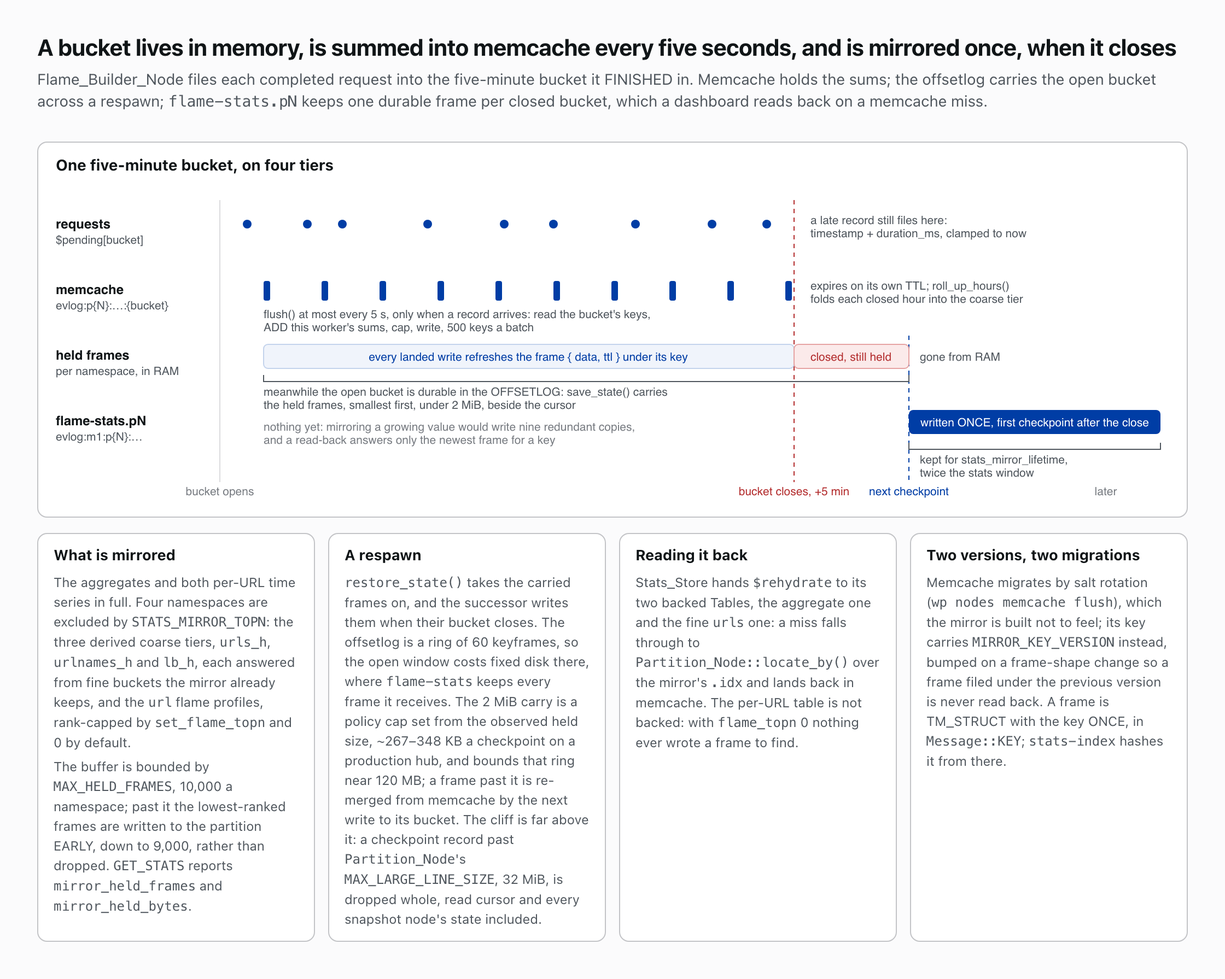
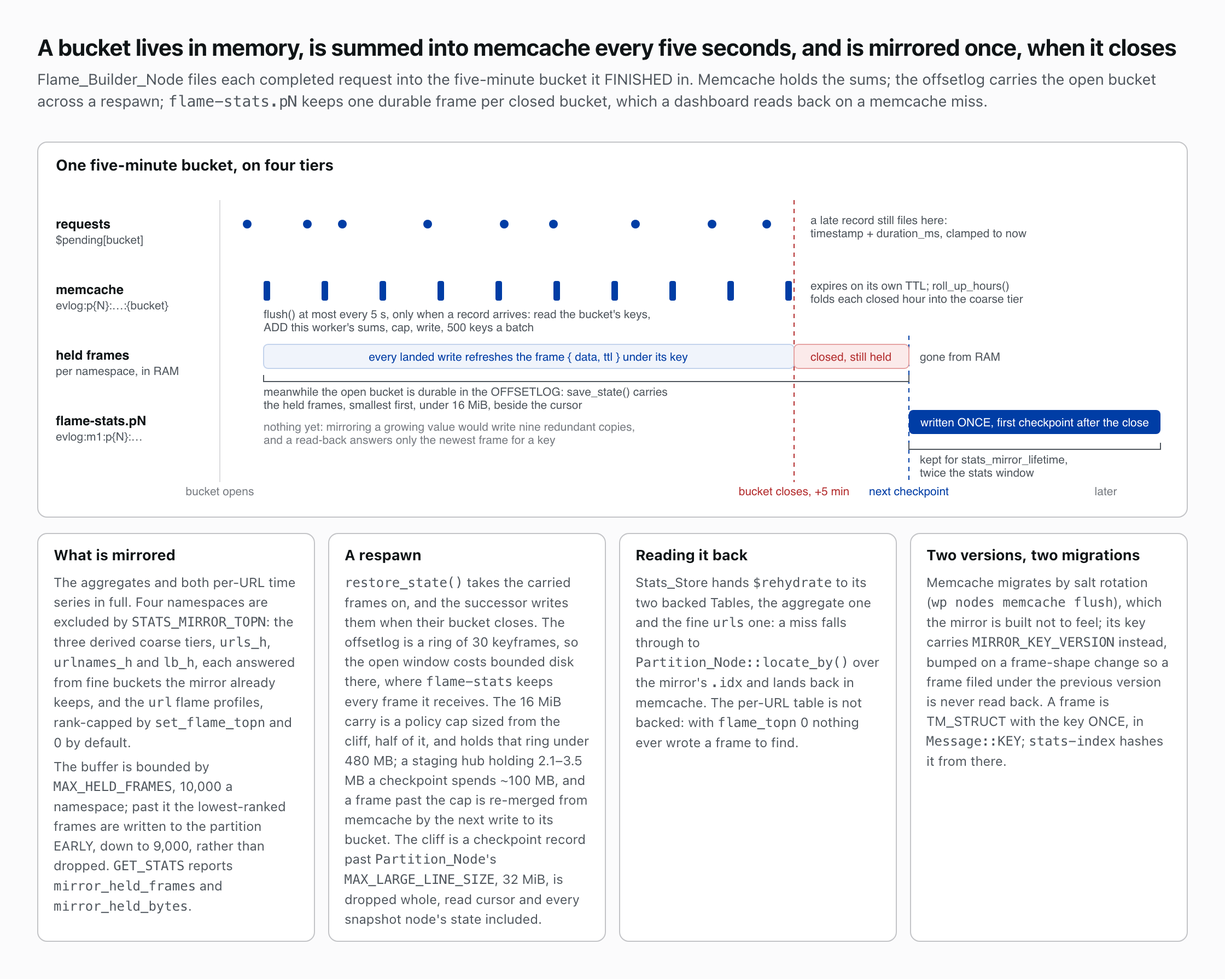
fix: size the checkpoint mirror budget from the record cliff
`MAX_CHECKPOINT_MIRROR_BYTES` was 2 MiB, set from one production hub's
267–348 KB per checkpoint. A staging hub holds ~1,400 per-URL frames,
2.1–3.5 MB, so every checkpoint of every `complete` worker dropped 52–291
frames and logged the tripwire, which then reported nothing. The budget
is 16 MiB, half of `Partition_Node::MAX_LARGE_LINE_SIZE`, the cliff past
which the whole record is dropped; the other half carries the cursor,
`pending` and the framing the policy cap does not count. Disk follows
what is held: the offsetlog ring keeps 30 keyframes, ~100 MB for that hub.

Changed region(s): [[0.2812, 0.6449, 0.4688, 0.8906], [0.375, 0.3992, 0.4688, 0.4299]]

diff --git a/docs/img/ag-stats-mirror.html b/docs/img/ag-stats-mirror.html
@@ -37,7 +37,7 @@
     <text x="790" y="165" fill="#50575E" font-size="10.5">gone from RAM</text>
     <!-- offsetlog note -->
     <path d="M190 178 V184 H780 V178" fill="none" stroke="#50575E"/>
-    <text x="190" y="197" fill="#50575E" font-size="10.5">meanwhile the open bucket is durable in the OFFSETLOG: save_state() carries</text><text x="190" y="209" fill="#50575E" font-size="10.5">the held frames, smallest first, under 2 MiB, beside the cursor</text>
+    <text x="190" y="197" fill="#50575E" font-size="10.5">meanwhile the open bucket is durable in the OFFSETLOG: save_state() carries</text><text x="190" y="209" fill="#50575E" font-size="10.5">the held frames, smallest first, under 16 MiB, beside the cursor</text>
     <!-- flame-stats row -->
     <rect x="780" y="210" width="230" height="22" rx="4" fill="#003DA5"/>
     <text x="895" y="225" text-anchor="middle" fill="#fff" font-size="10.5">written ONCE, first checkpoint after the close</text>
@@ -49,7 +49,7 @@
 
 <div class="grid">
   <div class="card"><h3>What is mirrored</h3><p>The aggregates and both per-URL time series in full. Four namespaces are excluded by <span class="mono">STATS_MIRROR_TOPN</span>: the three derived coarse tiers, <span class="mono">urls_h</span>, <span class="mono">urlnames_h</span> and <span class="mono">lb_h</span>, each answered from fine buckets the mirror already keeps, and the <span class="mono">url</span> flame profiles, rank-capped by <span class="mono">set_flame_topn</span> and 0 by default.</p><p>The buffer is bounded by <span class="mono">MAX_HELD_FRAMES</span>, 10,000 a namespace; past it the lowest-ranked frames are written to the partition EARLY, down to 9,000, rather than dropped. <span class="mono">GET_STATS</span> reports <span class="mono">mirror_held_frames</span> and <span class="mono">mirror_held_bytes</span>.</p></div>
-  <div class="card"><h3>A respawn</h3><p><span class="mono">restore_state()</span> takes the carried frames on, and the successor writes them when their bucket closes. The offsetlog is a ring of 60 keyframes, so the open window costs fixed disk there, where <span class="mono">flame-stats</span> keeps every frame it receives. The 2 MiB carry is a policy cap set from the observed held size, ~267–348 KB a checkpoint on a production hub, and bounds that ring near 120 MB; a frame past it is re-merged from memcache by the next write to its bucket. The cliff is far above it: a checkpoint record past <span class="mono" style="white-space:nowrap">Partition_Node</span>'s <span class="mono" style="white-space:nowrap">MAX_LARGE_LINE_SIZE</span>, 32 MiB, is dropped whole, read cursor and every snapshot node's state included.</p></div>
+  <div class="card"><h3>A respawn</h3><p><span class="mono">restore_state()</span> takes the carried frames on, and the successor writes them when their bucket closes. The offsetlog is a ring of 30 keyframes, so the open window costs bounded disk there, where <span class="mono">flame-stats</span> keeps every frame it receives. The 16 MiB carry is a policy cap sized from the cliff, half of it, and holds that ring under 480 MB; a staging hub holding 2.1–3.5 MB a checkpoint spends ~100 MB, and a frame past the cap is re-merged from memcache by the next write to its bucket. The cliff is a checkpoint record past <span class="mono" style="white-space:nowrap">Partition_Node</span>'s <span class="mono" style="white-space:nowrap">MAX_LARGE_LINE_SIZE</span>, 32 MiB, is dropped whole, read cursor and every snapshot node's state included.</p></div>
   <div class="card"><h3>Reading it back</h3><p>Stats_Store hands <span class="mono">$rehydrate</span> to its two backed Tables, the aggregate one and the fine <span class="mono">urls</span> one: a miss falls through to <span class="mono">Partition_Node::locate_by()</span> over the mirror's <span class="mono">.idx</span> and lands back in memcache. The per-URL table is not backed: with <span class="mono">flame_topn</span> 0 nothing ever wrote a frame to find.</p></div>
   <div class="card"><h3>Two versions, two migrations</h3><p>Memcache migrates by salt rotation (<span class="mono">wp nodes memcache flush</span>), which the mirror is built not to feel; its key carries <span class="mono">MIRROR_KEY_VERSION</span> instead, bumped on a frame-shape change so a frame filed under the previous version is never read back. A frame is TM_STRUCT with the key ONCE, in <span class="mono">Message::KEY</span>; <span class="mono">stats-index</span> hashes it from there.</p></div>
 </div>

diff --git a/docs/img/dec-held-frames.html b/docs/img/dec-held-frames.html
@@ -40,15 +40,15 @@
   </div>
 
   <div class="budget">
-    <h3>The carry is capped at <span class="m">MAX_CHECKPOINT_MIRROR_BYTES</span>, 2,097,152 bytes, and the WIDEST frame is dropped first</h3>
+    <h3>The carry is capped at <span class="m">MAX_CHECKPOINT_MIRROR_BYTES</span>, 16,777,216 bytes, and the WIDEST frame is dropped first</h3>
     <div class="bar" style="margin-top:22px">
-      <span class="lbl" style="left:0">observed held total on a production hub: ~267–348 KB per checkpoint</span>
-      <div class="held" style="width:16%">held</div>
+      <span class="lbl" style="left:0">held total on a staging hub: 2.1–3.5 MB per checkpoint, ~1,400 per-URL frames</span>
+      <div class="held" style="width:21%">held</div>
       <div class="old" style="width:12.5%"></div>
-      <span class="cap">2 MB: ~6× the observed peak, so the log does NOT fire in routine operation</span>
+      <span class="cap">16 MB: half the record cliff, so the log does NOT fire in routine operation</span>
     </div>
     <div class="legend">
-      <div><b style="color:#B32D2E">The red outline is 262,144</b>: at that budget the held totals sit just over the cap, a multi-spoke hub drops one to thirteen frames on nearly every checkpoint, and the tripwire trips permanently, which tells you nothing. The margin is what makes "it fired at all" informative.</div>
+      <div><b style="color:#B32D2E">The red outline is 2,097,152</b>: a budget set from one production hub's ~267–348 KB, which a staging hub holding 2.1–3.5 MB overran on every checkpoint, dropping 52 to 291 frames each time; the tripwire tripped permanently, which tells you nothing. Sizing from the outer limit rather than an observed size is what makes "it fired at all" informative.</div>
       <div><b>Why the widest goes first:</b> narrowest-first keeps the most keys recoverable per byte, and a dropped frame is re-merged from memcache by the next write to its bucket, lost only if the process AND memcache both fail before the bucket closes. <span class="m">Partition_Node</span> DROPS an oversize record outright, and that record is the whole checkpoint, cursor included.</div>
       <div><b>The pack orders by ENTRY COUNT, not encoded bytes,</b> and encodes only what it carries plus the one it stops on: encoding every held frame to sort them would make the budget bound the OUTPUT and never the work, megabytes of throwaway JSON every thirty seconds. A frame is a map of small numeric entries, so count tracks size closely, and the budget is still enforced against real encoded bytes as they accumulate.</div>
     </div>
@@ -56,8 +56,8 @@
 
   <div class="nums">
     <div class="n"><div class="big">10,000</div><div class="k"><span class="m">MAX_HELD_FRAMES</span> per namespace: past it <span class="m">spill_over_backstop()</span> writes a BAND, a tenth of the bound, to the partition EARLY rather than dropping anything; a redundant record, never a lost frame</div></div>
-    <div class="n"><div class="big">60 × 2 MB</div><div class="k"><span class="m">OFFSETLOG_MAX_SEGMENTS</span> keyframes: ~120 MB of disk plus a write every 30 s. The ring caps keyframe COUNT and never bytes, so raising the budget raises the disk cost in direct proportion</div></div>
-    <div class="n"><div class="big">16×</div><div class="k">how far away <span class="m">Partition_Node::MAX_LARGE_LINE_SIZE</span> is; it does not bind</div></div>
+    <div class="n"><div class="big">30 × held</div><div class="k"><span class="m">OFFSETLOG_NUM_SEGMENTS</span> keyframes of what is HELD, ~100 MB of disk for the staging hub, plus a write every 30 s. The ring caps keyframe COUNT and never bytes, so the budget is its ceiling, 480 MB, not its size</div></div>
+    <div class="n"><div class="big">2×</div><div class="k">how far away <span class="m">Partition_Node::MAX_LARGE_LINE_SIZE</span> is; the other half carries the cursor, <span class="m">pending</span> and the framing the policy cap does not count</div></div>
     <div class="n"><div class="big">0 of 12</div><div class="k">pre-deploy buckets kept by a 0.00 req/s URL under a top-100 rank cap: the cap leaves every quieter URL in memcache alone, and a moved cache scope takes its whole history. Buffer-time eviction is a strictly larger loss than a checkpoint drop, so <span class="m">STATS_MIRROR_TOPN</span> rank-caps no per-URL namespace</div></div>
   </div>
 

diff --git a/tests/unit/FlameBuilderTest.php b/tests/unit/FlameBuilderTest.php
@@ -1569,6 +1569,37 @@ class FlameBuilderTest extends TestCase {
 		);
 	}
 
+	public function test_a_multi_megabyte_held_set_is_carried_whole(): void {
+		// A staging hub holds ~1,400 per-URL frames, 2.1-3.5MB a checkpoint.
+		// The budget is sized from the record cliff, half of
+		// `Partition_Node::MAX_LARGE_LINE_SIZE`, rather than a fixture, so a
+		// held set of that size rides the keyframe entire and the tripwire
+		// stays quiet: one that fires every checkpoint reports nothing.
+		$err = '';
+		Core::set_stderr_handler( static function ( $text ) use ( &$err ) {
+			$err .= $text;
+		} );
+
+		Core::$memd = new InMemoryMemcached();
+		$store      = new Stats_Store( partition: 0, max_lifespan: 86400 );
+		[ $fb ]     = $this->mirrored_builder( $store, 'flames-stats' );
+
+		$open   = 1_700_000_000;
+		$bucket = Stats_Store::bucket_key( $open );
+		$fb->set_clock( static fn() => $open );
+
+		// 5.4MB held: a third of the budget, and past any fixture-sized one.
+		$this->set_hourly_bucket( $store, $bucket, [ 'count' => 3 ] );
+		$this->set_category_bucket( $store, $bucket, [ 'blob' => \str_repeat( 'c', 2400000 ) ] );
+		$this->set_leaderboard_bucket( $store, $bucket, [ 'blob' => \str_repeat( 'x', 3000000 ) ] );
+
+		$frames = $fb->save_state()['mirror']['frames'];
+		$fb->set_clock( null );
+
+		$this->assertStringNotContainsString( 'over the checkpoint budget', $err, 'the tripwire stays quiet' );
+		$this->assertCount( 3, \array_merge( ...\array_values( $frames ) ), 'every held frame is carried' );
+	}
+
 	public function test_the_over_budget_tripwire_names_what_did_not_fit(): void {
 		// ADR-11 calls this log the only tripwire that can tell you the budget
 		// is set wrong. It reported a bare count, so a hub firing it seventeen
@@ -1591,8 +1622,8 @@ class FlameBuilderTest extends TestCase {
 
 		// One that fits and TWO that do not, the leaderboard the larger.
 		$this->set_hourly_bucket( $store, $bucket, [ 'count' => 3 ] );
-		$this->set_category_bucket( $store, $bucket, [ 'blob' => \str_repeat( 'c', 2400000 ) ] );
-		$this->set_leaderboard_bucket( $store, $bucket, [ 'blob' => \str_repeat( 'x', 3000000 ) ] );
+		$this->set_category_bucket( $store, $bucket, [ 'blob' => \str_repeat( 'c', 16800000 ) ] );
+		$this->set_leaderboard_bucket( $store, $bucket, [ 'blob' => \str_repeat( 'x', 16900000 ) ] );
 
 		$fb->save_state();
 		$fb->set_clock( null );
@@ -1611,7 +1642,7 @@ class FlameBuilderTest extends TestCase {
 			$hit,
 			'not the one the loop stopped on'
 		);
-		$this->assertStringContainsString( '2097152', $hit, 'names the budget' );
+		$this->assertStringContainsString( '16777216', $hit, 'names the budget' );
 		// Makes the third bucket load-bearing: without it the counts go unasserted.
 		$this->assertStringContainsString( '2 of 3 frames dropped', $hit, 'counts what fell out' );
 	}
@@ -1635,8 +1666,8 @@ class FlameBuilderTest extends TestCase {
 		$fb->set_clock( static fn() => $open );
 
 		$this->set_hourly_bucket( $store, $bucket, [ 'count' => 7 ] );
-		$this->set_category_bucket( $store, $bucket, [ 'blob' => \str_repeat( 'c', 2400000 ) ] );
-		$this->set_leaderboard_bucket( $store, $bucket, [ 'blob' => \str_repeat( 'x', 3000000 ) ] );
+		$this->set_category_bucket( $store, $bucket, [ 'blob' => \str_repeat( 'c', 16800000 ) ] );
+		$this->set_leaderboard_bucket( $store, $bucket, [ 'blob' => \str_repeat( 'x', 16900000 ) ] );
 
 		$fb->save_state();
 		$fb->set_clock( null );
@@ -1672,8 +1703,8 @@ class FlameBuilderTest extends TestCase {
 		$bucket = Stats_Store::bucket_key( $open );
 		$fb->set_clock( static fn() => $open );
 		$this->set_hourly_bucket( $store, $bucket, [ 'count' => 11 ] );
-		$this->set_category_bucket( $store, $bucket, [ 'blob' => \str_repeat( 'c', 2400000 ) ] );
-		$this->set_leaderboard_bucket( $store, $bucket, [ 'blob' => \str_repeat( 'x', 3000000 ) ] );
+		$this->set_category_bucket( $store, $bucket, [ 'blob' => \str_repeat( 'c', 16800000 ) ] );
+		$this->set_leaderboard_bucket( $store, $bucket, [ 'blob' => \str_repeat( 'x', 16900000 ) ] );
 		$fb->save_state();
 		$fb->set_clock( null );
 
@@ -5057,7 +5088,7 @@ class FlameBuilderTest extends TestCase {
 		$fb->set_clock( static fn() => $open );
 
 		$this->set_hourly_bucket( $store, $bucket, [ 'count' => 3 ] );
-		$this->set_leaderboard_bucket( $store, $bucket, [ 'blob' => \str_repeat( 'x', 3000000 ) ] );
+		$this->set_leaderboard_bucket( $store, $bucket, [ 'blob' => \str_repeat( 'x', 16900000 ) ] );
 
 		// One namespaced space now: flatten it, the assertions are about WHICH
 		// frames rode, not which namespace they sat under.

diff --git a/includes/class-flame-builder-node.php b/includes/class-flame-builder-node.php
@@ -143,34 +143,31 @@ class Flame_Builder_Node extends Node implements Shutdown_Sweeper {
 	/**
 	 * Byte ceiling on the held mirror frames a checkpoint frame carries.
 	 *
-	 * Set from the OBSERVED held size, not from the drop cliff. A production hub
-	 * reports held totals of ~267KB–348KB per checkpoint, against a topics cache
-	 * peaking under 3.8MB across a day; this sits ~6x over the held peak, so
-	 * routine operation does not trip it and the tripwire below is informative
-	 * when it fires. A budget tight enough to fire every checkpoint reports
-	 * nothing.
+	 * Sized from the OUTER limit, not from an observed size. The checkpoint
+	 * record is the whole of `save_state()` — the read cursor, `pending` and
+	 * these frames — and `add_snapshot_node` lifts its PIPE_BUF cap to
+	 * `Partition_Node::MAX_LARGE_LINE_SIZE` (32MB), past which the record is
+	 * DROPPED, cursor included. This is a policy cap on FRAME bytes alone, so
+	 * keys, nesting and `pending` ride it uncounted; half the cliff leaves the
+	 * other half for them.
+	 *
+	 * A budget set from a fixture binds the first time a real site is bigger
+	 * than it: a staging hub holds ~1,400 per-URL frames, 2.1–3.5MB a
+	 * checkpoint, and a 2MB budget fired the tripwire below on every one of
+	 * them, which reports nothing. `mirror_held_bytes` on GET_STATS is where
+	 * the trend is read against this number.
 	 *
 	 * What it costs is DISK, in the offsetlog. That ring bounds keyframe COUNT
-	 * (`OFFSETLOG_MAX_SEGMENTS`, 60) and never bytes — its retention is count and
-	 * age only — and each keyframe carries a whole checkpoint, so this budget is
-	 * what bounds the ring: 60 x this value, ~120MB, plus a write every 30s.
-	 *
-	 * The cliff is elsewhere and far. `add_snapshot_node` lifts the PIPE_BUF cap
-	 * to `Partition_Node::MAX_LARGE_LINE_SIZE` (32MB), past which the record is
-	 * DROPPED — and the record is the whole checkpoint: the read cursor and every
-	 * snapshot node's state, not just these frames. This is a policy cap on FRAME
-	 * bytes, so keys, nesting and `pending` ride it uncounted; at 1/16th of the
-	 * cliff that slack cannot reach it.
-	 *
-	 * The headroom is also room for growth on the one axis that has none: the
-	 * per-server aggregates grow with the spoke count, one server's leaderboard
-	 * bucket being ~27KB. Decision 11 names bounding that axis as the real fix.
+	 * (`OFFSETLOG_NUM_SEGMENTS`, 30, which binds at a 30s cadence) and never
+	 * bytes, and each keyframe carries a whole checkpoint, so the ring holds 30x
+	 * what is HELD — the budget is its ceiling, 480MB, not its size: a hub
+	 * holding 3.5MB spends ~100MB.
 	 *
 	 * A frame past the budget is re-merged from memcache by the next write to its
 	 * bucket, so it is lost only if the process AND memcache both fail before the
 	 * bucket closes — the same double failure the mirror exists for.
 	 */
-	private const MAX_CHECKPOINT_MIRROR_BYTES = 2097152;
+	private const MAX_CHECKPOINT_MIRROR_BYTES = 16777216;
 
 	/**
 	 * Cap on the per-process string-intern table. Every dimension value, category

diff --git a/docs/architecture-decisions.md b/docs/architecture-decisions.md
@@ -124,19 +124,19 @@ The mirror exists to outlive `wp nodes memcache flush`, and a scoped key is orph
 
 A held frame is in no durable log, so `save_state()` carries the held frames in the offsetlog checkpoint and `restore_state()` takes them back, under a byte budget that drops the widest frame first. The offsetlog is a self-pruning ring of at most 60 keyframes, where the mirror retains for twice the stats window, so the open window costs bounded disk in the cheap place.
 
-![The held-frame carry in three steps and its bounds. A stats write is mirrored into a per-namespace buffer, last state wins, whose residency is one open bucket; every 30 seconds save_state() packs the held frames into the Consumer's offsetlog keyframe beside the cursor, and the rehydrate seam consults held frames first; at the first checkpoint after the bucket closes, the frames go to flame-stats under the unscoped mirror key. A bar shows the cap, MAX_CHECKPOINT_MIRROR_BYTES of 2,097,152 bytes, about six times the observed 267 to 348 KB per checkpoint on a production hub, against an outline at 262,144 bytes where a multi-spoke hub drops one to thirteen frames on nearly every checkpoint. Three notes: the widest frame goes first because narrowest-first keeps the most keys recoverable per byte and Partition_Node drops an oversize record, cursor included; the pack orders by entry count, not encoded bytes, and still enforces real bytes. Tiles: MAX_HELD_FRAMES 10,000 per namespace, past which spill_over_backstop() writes a band of a tenth of the bound early; OFFSETLOG_MAX_SEGMENTS 60 keyframes, about 120 MB of disk; Partition_Node::MAX_LARGE_LINE_SIZE 16 times away; and 0 of 12 pre-deploy buckets kept by a 0.00 req/s URL under a top-100 rank cap, which leaves every quieter URL in memcache alone, so STATS_MIRROR_TOPN rank-caps no per-URL namespace. Cards cover what the log carries when it fires; the GET_STATS fields mirror_held_bytes and mirror_held_frames, with six namespaces of five thousand reading as thirty thousand while one spilling on every write reads as ten thousand and fifty; and why the spill is a band, and why, with no partition, flush_stats_mirror() keeps the buffer for the next checkpoint and the backstop refuses the arrival rather than discarding a held frame.](img/dec-held-frames.png)
+![The held-frame carry in three steps and its bounds. A stats write is mirrored into a per-namespace buffer, last state wins, whose residency is one open bucket; every 30 seconds save_state() packs the held frames into the Consumer's offsetlog keyframe beside the cursor, and the rehydrate seam consults held frames first; at the first checkpoint after the bucket closes, the frames go to flame-stats under the unscoped mirror key. A bar shows the cap, MAX_CHECKPOINT_MIRROR_BYTES of 16,777,216 bytes, half of Partition_Node::MAX_LARGE_LINE_SIZE, against the 2.1 to 3.5 MB a staging hub holds per checkpoint and an outline at 2,097,152 bytes, a budget set from an earlier hub's 267 to 348 KB that the staging hub overran on every checkpoint. Three notes: the widest frame goes first because narrowest-first keeps the most keys recoverable per byte and Partition_Node drops an oversize record, cursor included; the pack orders by entry count, not encoded bytes, and still enforces real bytes. Tiles: MAX_HELD_FRAMES 10,000 per namespace, past which spill_over_backstop() writes a band of a tenth of the bound early; OFFSETLOG_NUM_SEGMENTS 30 keyframes of what is held, about 100 MB of disk for the staging hub; Partition_Node::MAX_LARGE_LINE_SIZE two times away; and 0 of 12 pre-deploy buckets kept by a 0.00 req/s URL under a top-100 rank cap, which leaves every quieter URL in memcache alone, so STATS_MIRROR_TOPN rank-caps no per-URL namespace. Cards cover what the log carries when it fires; the GET_STATS fields mirror_held_bytes and mirror_held_frames, with six namespaces of five thousand reading as thirty thousand while one spilling on every write reads as ten thousand and fifty; and why the spill is a band, and why, with no partition, flush_stats_mirror() keeps the buffer for the next checkpoint and the backstop refuses the arrival rather than discarding a held frame.](img/dec-held-frames.png)
 
-Three invariants the code must keep. The worker's `rehydrate` seam consults held frames FIRST, or a mid-bucket eviction makes the read-modify-write restart the bucket from zero. A restored frame's lifetime follows [substrate ADR-18](https://github.com/Automattic/newspack-nodes/blob/main/docs/architecture-decisions.md#adr-18-a-table-can-front-a-durable-record-the-walk-that-finds-it-stays-in-the-app): what is LEFT of the RETENTION window, bounded by its own storage role's TTL, so a frame whose CACHE lifetime ran out is still read, because refusing it loses an evicted `urls_h` that the fine buckets on disk can rebuild. And the carry is capped at `MAX_CHECKPOINT_MIRROR_BYTES` (2,097,152), because the per-server aggregates grow with the spoke count while `Partition_Node` DROPS an oversize record, and that record is the whole checkpoint, cursor included.
+Three invariants the code must keep. The worker's `rehydrate` seam consults held frames FIRST, or a mid-bucket eviction makes the read-modify-write restart the bucket from zero. A restored frame's lifetime follows [substrate ADR-18](https://github.com/Automattic/newspack-nodes/blob/main/docs/architecture-decisions.md#adr-18-a-table-can-front-a-durable-record-the-walk-that-finds-it-stays-in-the-app): what is LEFT of the RETENTION window, bounded by its own storage role's TTL, so a frame whose CACHE lifetime ran out is still read, because refusing it loses an evicted `urls_h` that the fine buckets on disk can rebuild. And the carry is capped at `MAX_CHECKPOINT_MIRROR_BYTES` (16,777,216), because the per-server aggregates grow with the spoke count while `Partition_Node` DROPS an oversize record, and that record is the whole checkpoint, cursor included.
 
-**Dropping the biggest is the design, not a fault**: narrowest-first keeps the most keys recoverable per byte, and a dropped frame is re-merged from memcache by the next write to its bucket, lost only if the process AND memcache both fail before the bucket closes. The budget is set from the observed held size, ~267KB–348KB per checkpoint on a production hub against a topics cache peaking under 3.8MB across a day, and clears that peak by ~6x, so the log does NOT fire in routine operation and "it fired at all" is informative. The margin buys that: at a budget of 262,144 the held totals sit just over the cap, a multi-spoke hub drops one to thirteen frames on nearly every checkpoint, and the tripwire trips permanently, which tells you nothing. The log carries the numbers: how many frames dropped of how many held, the budget, the bytes it carried, and the WIDEST held frame with its namespace and size, the namespace because a sharded `urls` key and an `lb_s` key are both opaque, and which one fired is the whole question this tripwire asks.
+**Dropping the biggest is the design, not a fault**: narrowest-first keeps the most keys recoverable per byte, and a dropped frame is re-merged from memcache by the next write to its bucket, lost only if the process AND memcache both fail before the bucket closes. The budget is set from the OUTER limit, half of `Partition_Node::MAX_LARGE_LINE_SIZE` (32MB), which leaves the other half for the cursor, `pending` and the framing the policy cap does not count, so the log does NOT fire in routine operation and "it fired at all" is informative. A budget set from an observed size does not buy that, because the observation is one site: 2,097,152, ~6x the 267KB–348KB a production hub held per checkpoint, dropped 52 to 291 of ~1,400 per-URL frames on EVERY checkpoint of a staging hub holding 2.1–3.5MB, and at 262,144 a multi-spoke hub dropped one to thirteen frames on nearly every one. A tripwire that trips permanently tells you nothing. The log carries the numbers: how many frames dropped of how many held, the budget, the bytes it carried, and the WIDEST held frame with its namespace and size, the namespace because a sharded `urls` key and an `lb_s` key are both opaque, and which one fired is the whole question this tripwire asks.
 
 **The pack orders by ENTRY COUNT, not by encoded bytes**, and encodes only what it carries plus the one it stops on: encoding every held frame to sort them would make the budget bound the OUTPUT and never the work, which at the held-frame backstop is megabytes of throwaway JSON every thirty seconds. A frame is a map of small numeric entries, so its count tracks its size closely, and the ordering only has to be APPROXIMATE: the budget is enforced against real encoded bytes as they accumulate, so a proxy that mis-orders two frames costs a slightly worse packing and never an oversize record. The GET_STATS payload reports two figures, on a verb an operator asks rather than every checkpoint: `mirror_held_bytes`, the exact held total, and `mirror_held_frames`, the WIDEST single namespace's held count, because `MAX_HELD_FRAMES` is per namespace and a cross-namespace total cannot warn about it: six namespaces holding five thousand each read as thirty thousand with nothing near the bound, while one spilling on every write reads as ten thousand and fifty.
 
-What bounds the budget from ABOVE is the offsetlog ring: `OFFSETLOG_MAX_SEGMENTS` (60) keyframes of up to the budget each, ~120MB of disk, plus a write every 30s. That ring caps keyframe COUNT and never bytes, and nothing else bounds it, so raising the budget raises the disk cost in direct proportion: that is the true cost of the number. `Partition_Node::MAX_LARGE_LINE_SIZE` is 16× away and does not bind.
+What the budget costs is disk, in the offsetlog ring: `OFFSETLOG_NUM_SEGMENTS` (30) keyframes of what is HELD, plus a write every 30s. The hard cap of 60 never binds at that cadence, since it exists for keyframes all younger than the 5-minute hold, of which a 30s cadence makes ten. That ring caps keyframe COUNT and never bytes, and nothing else bounds it, so the budget is the ring's ceiling rather than its size: the staging hub's 3.5MB spends ~100MB, and a hub holding the full budget would spend 480MB. `Partition_Node::MAX_LARGE_LINE_SIZE` is 2× away and does not bind.
 
 **The real lever is upstream, and it is a SPILL rather than an eviction.** Buffer-time eviction drops a frame from the durable mirror at bucket close, a strictly larger loss than dropping it from a checkpoint, which is why `STATS_MIRROR_TOPN` rank-caps no per-URL namespace: a top-100 cap there leaves every quieter URL in memcache alone, and a moved cache scope takes its whole history, measured on a production host as 0 of 12 pre-deploy buckets kept for a URL at 0.00 req/s. `MAX_HELD_FRAMES` bounds each namespace's held set at 10,000 instead, and `spill_over_backstop()` writes the overflow to the partition early rather than dropping it, so the bound costs one redundant record and never a frame. It spills a BAND, a tenth of the bound, rather than one frame: ranking the buffer is a pass over it, and the buffer PINS at the bound under exactly the traffic the bound exists for, so one frame per write would put that pass on every write past it, quadratic in a spray's length inside the worker this bound protects. The band is the hysteresis `trim_entries()` already uses, and a rank-ordered structure is NOT the alternative: a request merging into a key changes its rank, so keeping the buffer ordered pays per write instead. **With no partition to spill into, nothing already HELD is discarded**: `flush_stats_mirror()` reads a partition name that does not resolve as one that may resolve next checkpoint and keeps the buffer, and the backstop takes the same reading, refusing the ARRIVAL instead, whose value is still in memcache and whose bucket's next write re-offers it.
 
-**Revisit when** the log fires AT ALL, since any drop means the held set has grown past ~6x the size it was measured at, which is the O(servers) signal arriving, or when the WIDEST held frame the log names is NOT a per-server leaderboard, which would mean something other than fleet size is driving it. Read the CHECKPOINT trend in BYTES, off `mirror_held_bytes`: `urls` is sharded, so one open URL bucket holds SIXTEEN frames, each a sixteenth the size, and a frame count steps up with no fault behind it. Frames are what the BACKSTOP is against, which is why `mirror_held_frames` answers for one namespace rather than the set. Sharding is also what keeps the second tripwire honest: an unsharded `urls` blob carrying a split per row would exceed the whole budget and always be the widest frame, satisfying "the widest frame is NOT a per-server leaderboard" permanently, where sixteen smaller frames sort in among the leaderboards. The per-server aggregates still grow O(servers), so the CHECKPOINT budget still loses to fleet size eventually; bounding that axis remains the structural fix.
+**Revisit when** the log fires AT ALL, since any drop means the held set has grown to half the record cliff, which is the O(servers) signal arriving, or when the WIDEST held frame the log names is NOT a per-server leaderboard, which would mean something other than fleet size is driving it. Read the CHECKPOINT trend in BYTES, off `mirror_held_bytes`: `urls` is sharded, so one open URL bucket holds SIXTEEN frames, each a sixteenth the size, and a frame count steps up with no fault behind it. Frames are what the BACKSTOP is against, which is why `mirror_held_frames` answers for one namespace rather than the set. Sharding is also what keeps the second tripwire honest: an unsharded `urls` blob carrying a split per row would exceed the whole budget and always be the widest frame, satisfying "the widest frame is NOT a per-server leaderboard" permanently, where sixteen smaller frames sort in among the leaderboards. The per-server aggregates still grow O(servers), so the CHECKPOINT budget still loses to fleet size eventually; bounding that axis remains the structural fix.
 
 ---
 

diff --git a/docs/architecture-guide.md b/docs/architecture-guide.md
@@ -289,7 +289,7 @@ secure
 
 `set_stats_target <eln:stats_mirror_node>` mirrors the memcache stats into the durable `flame-stats:partition`, which a memcache miss reads back through its `stats-index` companion index; set `stats_mirror_node` to `''` to disable it. The partition takes its own ring geometry from `<eln:stats_mirror_segment_size>` and `<eln:stats_mirror_num_segments>`, because `flame-stats` holds every per-URL frame and the substrate knobs also size `requests`, `flames` and `jobs`.
 
-![One five-minute bucket on four tiers: requests file into $pending by the bucket they finished in; flush() sums them into memcache at most every five seconds; every landed write refreshes a held frame in RAM, carried in the offsetlog under a 2 MiB cap until the bucket closes; flame-stats.pN receives the frame once, at the first checkpoint after the close, and keeps it for twice the stats window. Four cards cover what is mirrored and the 10,000-frame backstop, a respawn and the 32 MiB cliff behind its carry, the read-back through locate_by(), and the mirror's own key version.](img/ag-stats-mirror.png)
+![One five-minute bucket on four tiers: requests file into $pending by the bucket they finished in; flush() sums them into memcache at most every five seconds; every landed write refreshes a held frame in RAM, carried in the offsetlog under a 16 MiB cap until the bucket closes; flame-stats.pN receives the frame once, at the first checkpoint after the close, and keeps it for twice the stats window. Four cards cover what is mirrored and the 10,000-frame backstop, a respawn and the 32 MiB cliff behind its carry, the read-back through locate_by(), and the mirror's own key version.](img/ag-stats-mirror.png)
 
 Reading it back is BUDGETED, and only for the dashboard. [`Partition_Node::locate_by()`](https://github.com/Automattic/newspack-nodes/blob/v2.56.0/includes/class-partition-node.php) cannot stop early on a key that is absent from the index, so every batch that misses on memcache costs a full pass over the mirror's `.idx` — ~192ms over 150,000 lines — and one cold `urls` poll issues thousands of them, sixteen shards by four partitions by twenty-five bucket chunks. So [`Performance_CI_Node::dispatch()`](../includes/app/class-performance-ci-node.php) starts each VERB with a fresh `stats_mirror_read_budget_ms` (default 1500, `0` off), `Flame_Builder_Node::arm_stats_reader()` stops consulting the mirror once it is spent, and the reader answers from memcache alone for the rest of that verb — one poll batches `overview` and `urls` into a single POST, so a response can spend the budget twice — the "no data" degradation the stats readers already take. Naming the rows a verb shows is an answer of its own: `resolve_urls()` runs its one `urlmap` read per partition under `Flame_Builder_Node::with_own_mirror_read_budget()`, a fresh budget that resumes the verb's accounting afterwards, because the names resolve last, after the walk that spends the verb's, and a page of counts against blank URLs is no page. An absence the walk answered is remembered, so the budget is spent learning it once rather than on every poll: `arm_stats_reader()` also sets the store's `$absence` seam to `Stats_Store::absence_holds()`, and the Table stores a marker for each key the mirror did not return, held for what is left of the window for a bucket that closed and for `ABSENCE_HOLD_SECONDS` for the open bucket or a key that is no bucket. Without it a sparse server, one with buckets the mirror holds no frame for in every window, spent the whole budget on the leaderboard's absent keys on every poll and its per-server series never filled in. `rehydrate_seam()` also skips any namespace `STATS_MIRROR_TOPN` caps at zero, since a read of one can only ever walk and find nothing. The WORKER's own seam, armed by `set_stats_target`, is unbudgeted: it is restoring its own state, not answering a poll.
 
@@ -535,7 +535,7 @@ class Flame_Builder_Node extends Node {
     ];
     public  const MAX_URLS_PER_SHARD = 2000;    // top-N per URL-index SHARD (x16)
 
-    private const MAX_CHECKPOINT_MIRROR_BYTES = 2097152; // held-frame carry budget
+    private const MAX_CHECKPOINT_MIRROR_BYTES = 16777216; // held-frame carry budget
     private const WRITE_BATCH_KEYS            = 500;     // keys per flush batch
     private const ROLLUP_HOURS_PER_FLUSH      = 2;       // coarse-tier backfill bound
     private const REPROBE_EVERY_FLUSHES       = 60;      // re-probe the folded-hours memo

diff --git a/CHANGELOG.md b/CHANGELOG.md
@@ -7,6 +7,10 @@ and this project adheres to [Semantic Versioning](https://semver.org/spec/v2.0.0
 
 ## [Unreleased]
 
+### Fixed
+
+- **The checkpoint carries a multi-megabyte held set whole.** `Flame_Builder`'s `MAX_CHECKPOINT_MIRROR_BYTES` was 2 MiB, sized from one production hub's 267–348 KB per checkpoint; a staging hub holds ~1,400 per-URL frames, 2.1–3.5 MB, so every checkpoint of every `complete` worker dropped 52–291 frames and logged the tripwire, which then reported nothing. The budget is 16 MiB now, half of `Partition_Node::MAX_LARGE_LINE_SIZE`, the cliff past which the whole checkpoint record is dropped, with the other half left for the cursor, `pending` and the framing the policy cap does not count. Disk follows what is held, not the budget: the offsetlog ring keeps ~30 keyframes, so that hub spends ~100 MB.
+
 ## [0.98.3] - 2026-09-14
 
 ### Fixed
